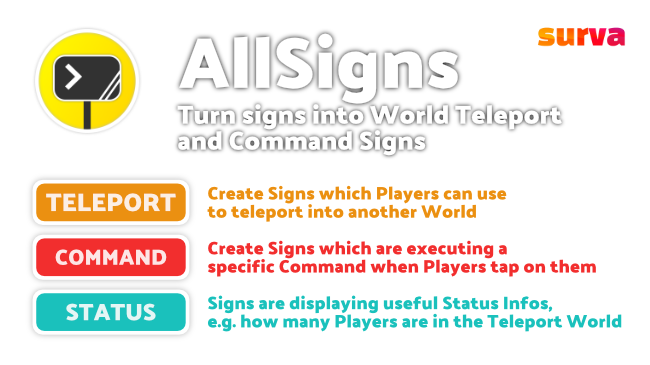
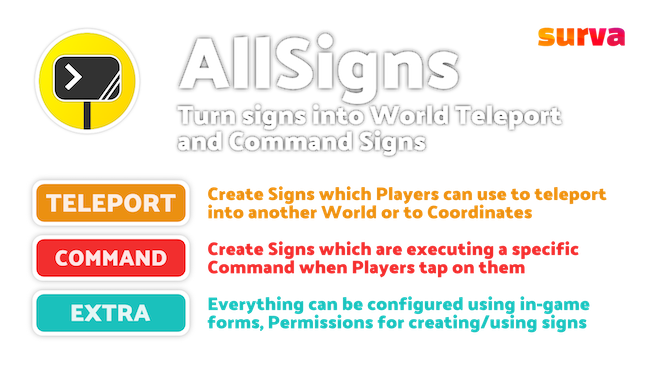
Updated README, features, usage description

diff --git a/README.md b/README.md
@@ -47,45 +47,34 @@ With AllSigns, you can easily create signs which are executing commands or telep
 
 ## 🎁 Features
 - **COMMAND SIGNS** Signs executing commands when players tap them
-- **TELEPORT SIGNS** Signs teleporting players in a specific world when they tap them
-- **USABILITY** Easy to use and learn
+- **TELEPORT SIGNS** Signs teleporting players in a specific world/coordinates when they tap them
+- **USABILITY** Easy to use with in-game form windows, no need to use commands or edit config files
 
 ## 🖱 Usage
+Please see the [full documentation 📖](https://plugins.surva.net/docs/AllSigns) for a detailed description of all features.
+
+To create a new AllSign, place a sign and write `#as` into the first line. A form wizard will open where you can configure all settings for the sign.
+
+![](.github/.media/create-new-sign.png)
+
 ### ⌨ Command Signs
-To create a command sign which executes a specific command when a player touches it, just create a sign like this and touch it.
+To create a command sign which executes a specific command when a player touches it, just create a sign like described above.
 
-![](http://i.imgur.com/1EqidAN.png)
-
-Write the sign like that:  
-1. command  
-2. anything like a description of the command or leave blank 
-3. the first part of the command  
-4. the second part of the command  
-
-So when you are writing your sign like this, it'll execute the command "help". 
-1. command
-2. this is a test description 
-3. help  
-4. nothing (leave blank) 
-
-And when you're writing your sign like that, it'll also execute the command "help".  
-1. command
-2. this is a test description 
-3. he  
-4. lp 
+![](.github/.media/command-sign.png)
 
 ### 🌎 Teleport Signs
-To create a world sign which teleports a player to a specific world when he touches and is showing how many players are in the world, just create a sign like this and touch it.
+To create a world sign which teleports a player to a specific world or coordinates, create a sign like described above.
 
-![](http://i.imgur.com/UbEQBJE.png)
+![](.github/.media/teleport-sign.png)
 
-So write the sign like that:  
-1. world  
-2. the name of the world (e.g. lobby) 
-3. anything like a description of the world or leave blank  
-4. anything like a description of the world or leave blank 
+To edit a sign, touch it with a golden pickaxe. If you want to remove a sign, just break it.
 
 [Read the full documentation 📖](https://plugins.surva.net/docs/AllSigns) • [Ask questions on Discord 💬](https://discord.gg/t4Kg4j3829)
+
+## 🚧 Upgrade from v1
+The second version of AllSigns is a complete rewrite of the plugin. Because of fundamental changes in the way how the plugin works, an upgrade from v1 is not supported, meaning all signs created in v1 need to be re-created.
+
+If you want to [upgrade to v2](https://plugins.surva.net/docs/AllSigns/#upgradev1), please delete all config files of the plugin first by deleting the plugin_data/AllSigns folder in the PocketMine directory. You can then just replace the PHAR-file of the plugin and start using v2.
 
 ## 🙋 Contribution
 Feel free to contribute if you have ideas or found an issue.
